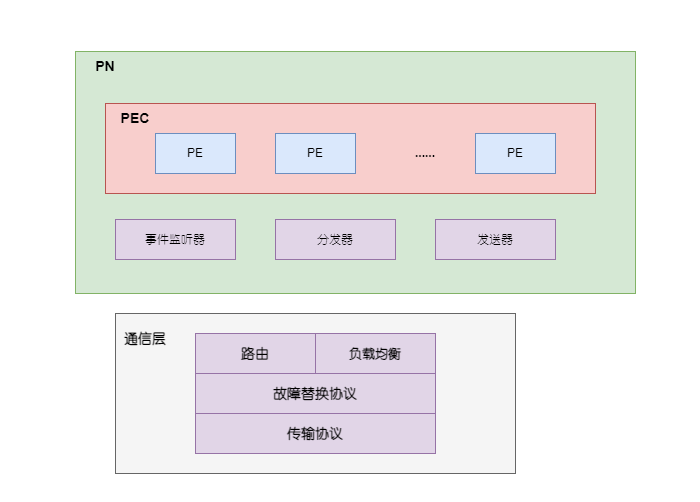
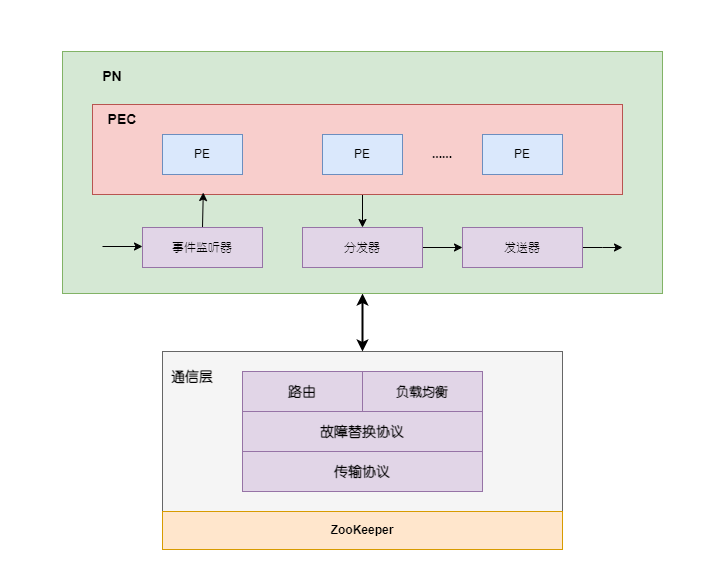
流计算整理

diff --git a/doc/Stream/Theory/00_OverView.md b/doc/Stream/Theory/00_OverView.md
@@ -1,7 +1,7 @@
-在大多数场合，流式计算对大数据处理的计算时效性要求很高，要求计算在非常短时间延时内完成，这样可以更好发挥流式计算系统的威力。流式计算的概念已经存在很长的时期，将早期和当前的流式计算系统分别称为“连续查询处理类”和“可扩展流数据平台类”计算系统。
+在大多数场合，流式计算对大数据处理的计算时效性要求很高，要求计算在非常短时间延时内完成，这样可以更好发挥流式计算系统的威力。流式计算的概念已经存在很长的时期，将早期和当前的流式计算系统分别称为连续查询处理类和可扩展流数据平台类计算系统。
 
 1. 连续查询处理往往是数据流管理系统(DSMS)必须要实现的功能，一般用户输入SQL查询语句后，数据流按照时间先后顺序被切割成数据窗口，DSMS在连续流动的数据窗口中执行用户提交的SQL语句，并实时返回查询结果。包括STREAM、StreamBase、Borealis、Aurora、Telegraph等，这类系统往往会为用户提供SQL查询接口来对流数据进行挖掘。
-2. “可扩展数据流平台类”计算系统与此不同，其设计初衷是出于模仿MapReduce计算框架的思路，即在对处理时效性有高要求的计算场景下，如何提供一个完善的计算框架，并暴露给用户少量的编程接口，使得用户能够集中精力处理应用逻辑。至于系统性能、低延迟、数据不丢失以及容错等问题，则由计算框架来负责，这样能够大大增加应用开发的生产力。包含Yahoo的S4和Twitter的Storm系统。
+2. 可扩展数据流平台类计算系统与此不同，其设计初衷是出于模仿MapReduce计算框架的思路，即在对处理时效性有高要求的计算场景下，如何提供一个完善的计算框架，并暴露给用户少量的编程接口，使得用户能够集中精力处理应用逻辑。至于系统性能、低延迟、数据不丢失以及容错等问题，则由计算框架来负责，这样能够大大增加应用开发的生产力。包含Yahoo的S4和Twitter的Storm系统。
 
 一个优秀的流计算系统应具备如下的特点：
 
@@ -14,7 +14,45 @@
 
 从流式计算的计算任务拓扑结构角度来看，一般的流式计算任务都是由计算节点和流式数据组成的DAG。DAG中的顶点是算子，表示计算，边表示数据依赖关系。DAG的节点一般是完成一个计算任务所需要的各种处理功能，比如过滤、数值累加、Join等具体计算功能，而流经各个计算节点的实时数据流构成了DAG的有向边。
 
-## 
+<b><font color=FF7D33>
+主要有两个问题:
+1. 如何定义各个计算节点的处理逻辑和对应的输入输出数据？
+2. 如何使用数据流将这些计算节点连接起来表达整体的计算任务？
+
+本质上就是图拓扑结构的构建问题。
+</b></font>
+
+## 计算节点
+一般而言，在流式计算系统的DAG拓扑结构图中，计算节点分为两类，
+- 一类是整个计算任务的数据输入节点，负责和外部其他系统进行交互，并将输入数据接入流式计算系统。Storm中将这类计算节点称为Spout，MillWheel将这类计算节点称为Injector，S4中对计算节点也有类似的划分，其中无主键事件(Keyless Event)充当类似的角色。
+
+- 第二类节点是完成计算任务的任务计算节点。在Storm中被称为Bolt，整个计算任务就是由若干此类节点通过流经计算节点的流式数据串接起来完成的。每个此类计算节点往往从上游节点接收数据流，对数据流进行特定的计算处理，然后产生衍生数据流，并分发到其下游的计算节点。
+
+## 数据流
+对于所有的流式系统，DAG拓扑结构中的边都是由连续不断进入流式计算系统的数据构成的数据流，区别在于表达数据流中数据的方式。
+
+在MillWheel中，每条流经计算节点的数据由以下三元组来表达：`(Key, Value, TimeStamp)`。即每条数据是由主键(Key)、数据值(Value)和时间戳(TimeStamp)构成的。其中的数据值可以是任意字符串，以此代表整个待处理数据的记录内容。
+
+Storm则将每条数据用数据元组(Data Tuple)来表示，虽然并未明确指明数据主键，但是实际可以将主键放在元组中特定的位置来对主键和其他内容进行区分，接收到数据的计算节点可以从元组对应的内容中读出所需的数据。
+
+S4使用`[K，A]`方式来表达某条数据，其中，K和A分别是主键和属性构成的数据元组。比如下面的例子就表明了单词及其计数的数据：
+```
+Key:word=＂Hello＂
+Attribute: count=2
+```
+
+
+## 拓扑结构
+复杂的任务可以进行分解，复杂的任务可以由若干基本的结构单元通过嵌套关系关联而成，DAG结构中最常见的基本拓扑结构包含：流水线、乱序分组、定向分组和广播模式。
+
+1. 流水线(Pipeline)是最常见的基本拓扑结构，其将两个计算任务通过数据流连接起来。
+
+2. 乱序分组(Shuffle Grouping)是描述并发的两个计算任务间某种特殊连接方式的基础拓扑结构。计算任务A有两个并发计算节点，计算任务B有三个并发计算节点，如果计算任务A向下游的计算任务B分发数据流时遵循乱序分组机制，即上游节点将其输出的数据随机分发到下游某个计算节点中，则这个结构可被看作是乱序分组的基本结构。乱序分组往往是大数据情况下对数据进行负载均衡的较好机制。
+
+3. 定向分组(Field Grouping)从体系结构上与乱序分组类似，不同点在于上下游计算节点分发数据的模式，定向分组的上游节点在分发数据时，往往根据数据的某个属性（比如主键）进行哈希计算，保证同一属性内容的数据被固定分发到下游的某个计算节点。
+
+4. 广播模式的上游计算节点在分发数据时，同一个数据要向所有的下游计算节点各自分发一次。
+
 
 # 计算系统架构
 
@@ -22,10 +60,12 @@
 
 ## 主从架构
 
-Storm中有主控节点和工作节点，主控节点上运行Nimbus，其主要职责是分发计算代码、在机器间分配计算任务以及故障检测等管理功能；主控节点上运行Nimbus，其主要职责是分发计算代码、在机器间分配计算任务以及故障检测等管理功能。
+Storm中有主控节点和工作节点，主控节点上运行Nimbus，其主要职责是分发计算代码、在机器间分配计算任务以及故障检测等管理功能；主控节点上运行Nimbus，其主要职责是分发计算代码、在机器间分配计算任务以及故障检测等管理功能。集群中的每台工作服务器上运行Supervisor，其监听Nimbus分配给自己的任务，并根据其要求启动或者停止相关的计算任务，一个Supervisor可以负责DAG图中的多个计算任务。
 
 ZooKeeper集群用来协调Nimbus和Supervisor之间的工作，Storm将两者的状态信息存储在ZooKeeper集群上，这样Nimbus和Supervisor都成为无状态的服务节点，可以方便地进行故障恢复，无论哪个构件发生故障，都可以随时在另外一台机器上快速重新启动而不会丢失任何状态信息，但是，具体的DAG流式计算任务的计算节点可能是有状态的。
-
+<center>
+    <img src="./img/Storm_Arch.png">
+</center>
 <b><font color="orange">zk上需要存储那些信息？</font></b>
 
 
